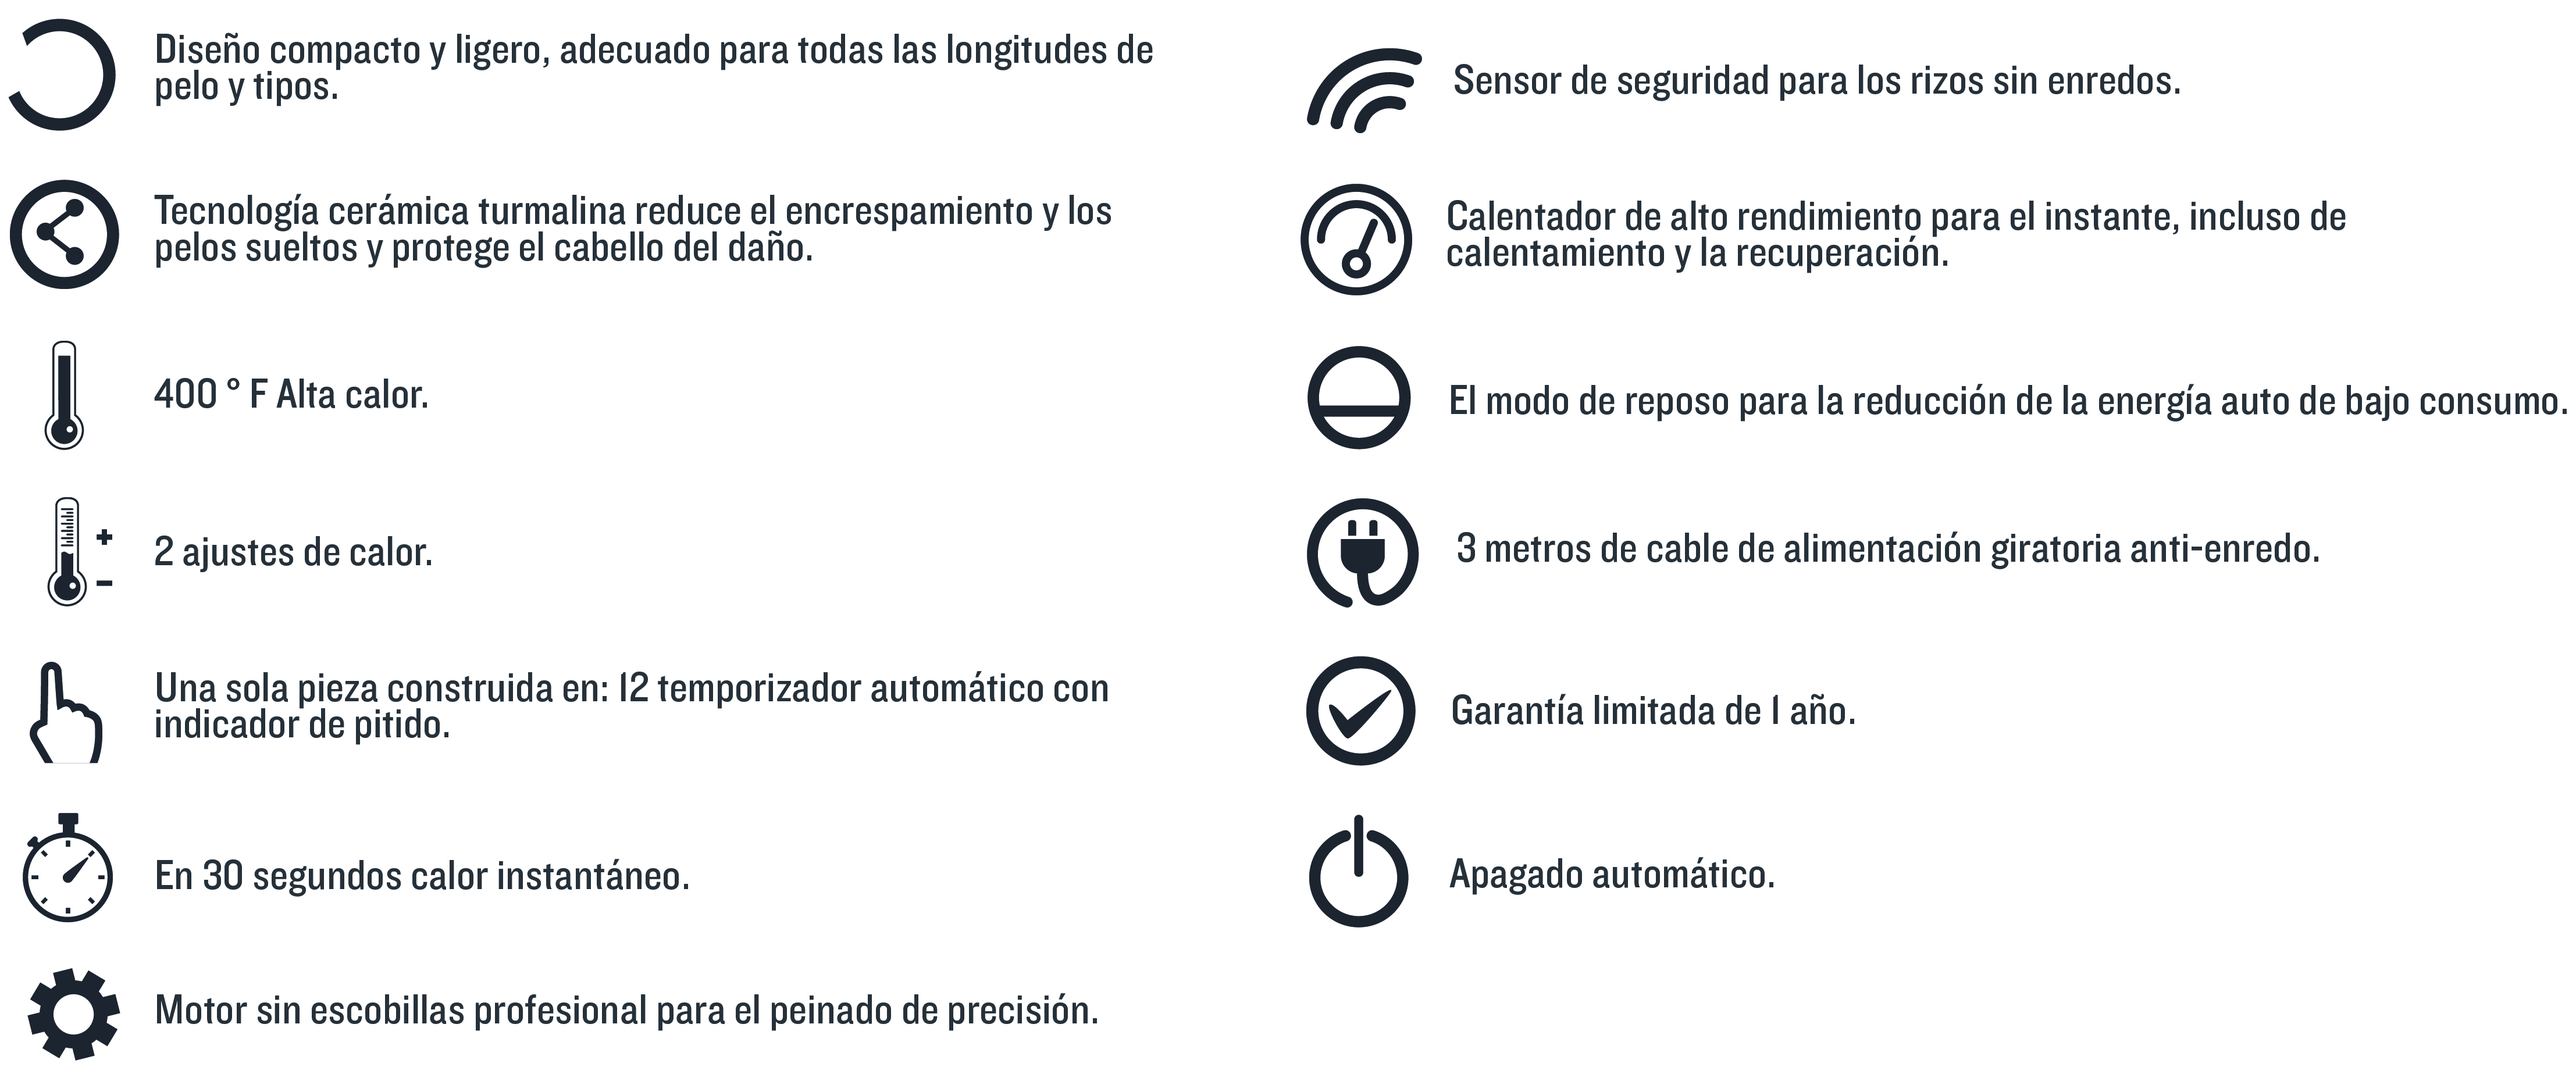
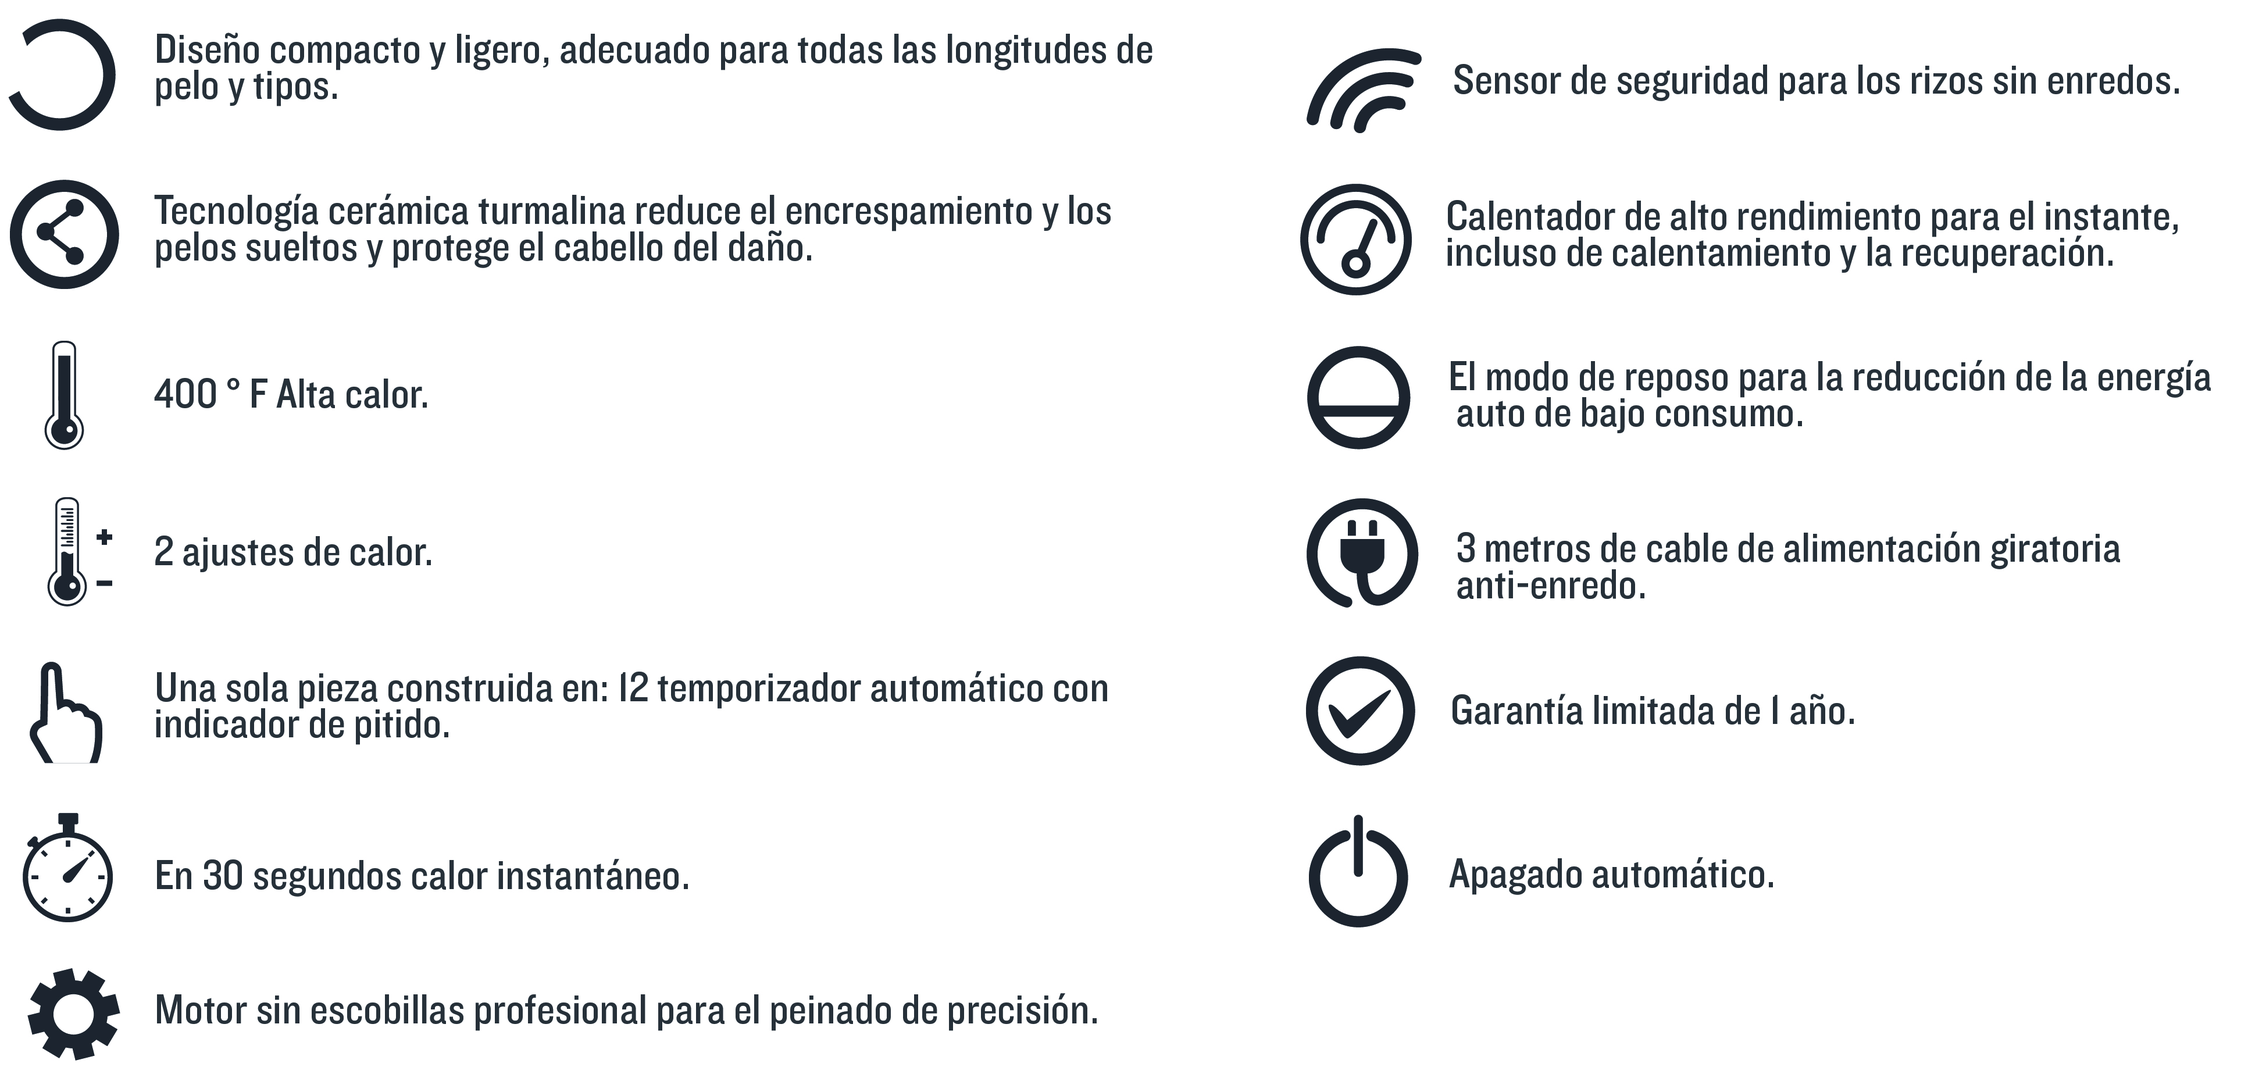
puse la ficha tecnica los pasos y los puntos

diff --git a/RizadorMVC/css/estilos.css b/RizadorMVC/css/estilos.css
@@ -26,7 +26,7 @@ h3{
     line-height: 38px;
     font-weight: 100;
     font-family: "ChampionsBold.otf";
-    color: #38393a;
+    color:#FFFFFF;
 
 }
 
@@ -118,7 +118,7 @@ header{
  
 .nav a {
   text-decoration: none;
-  color: #38393a;
+  color: #000000;
   display: block;
   transition: .3s background-color;
   font-family: "ChampionsRegular.otf";
@@ -154,7 +154,7 @@ header{
 	width: 90%;
 	margin:0 auto;
 	height: auto;
-	background: rgba(117,69,116,0.5);
+	background: rgba(117,69,116,0.7);
 	overflow: hidden;
 	margin-top: 100px;
 }
@@ -176,12 +176,13 @@ header{
 }
 
 #homePromo{
-	margin-top: 290px;
+	
+	margin-top: 280px;
 	position: absolute;
 }
 #homeBtn{
-	margin-top: 500px;
-	margin-left: 100px;
+	margin-top: 520px;
+	margin-left: 160px;
 	position: absolute;
 	
 }
@@ -221,7 +222,8 @@ header{
 
 #contentVideo{
 	width: 90%;
-	margin: 0 auto;
+	
+	margin-left: 300px;
 }
 
 
@@ -295,11 +297,7 @@ list-style: none;
 	
 }
 
-.tablaPuntos{
-	float: left;
-	width: 50%;
 
-}
 
 .tablaPuntos img {
 	width: 100%;

diff --git a/RizadorMVC/app/Vistas/secciones/puntos.php b/RizadorMVC/app/Vistas/secciones/puntos.php
@@ -2,10 +2,10 @@
       <p class="centrarTexto"> Encuetre el listado de almacenes donde puede realizar la reserva</p>
       <div id="divPuntos">
       	<div class="tablaPuntos">
-      		<img src="img/Tabla_puntos1.jpg" alt="">
+      		<img src="img/Tabla_puntos1.png" alt="">
       	</div>
-      	<div class="tablaPuntos">
+      <!--	<div class="tablaPuntos">
       		<img src="img/Tabla_puntos2.jpg" alt="">
-      	</div>
+      	</div> -->
         
       </div>

diff --git a/RizadorMVC/app/Vistas/secciones/home.php b/RizadorMVC/app/Vistas/secciones/home.php
@@ -11,5 +11,5 @@
       <h3 class="centrarTexto">FICHA TÉCNICA</h3>
       <p class="centrarTexto"> La Revista Vea y El Éxito te traen el regalo perfecto para ti, mujer. El rizador Fashion Curl Conair, que ayudará a variar tu forma de peinarte y estar lista para cada ocasión.</p>
       <div id="divfichaTec">
-        <img src="img/caracteristicas.jpg" alt="">  
+        <img src="img/caracteristicas.png" alt="">  
       </div>
